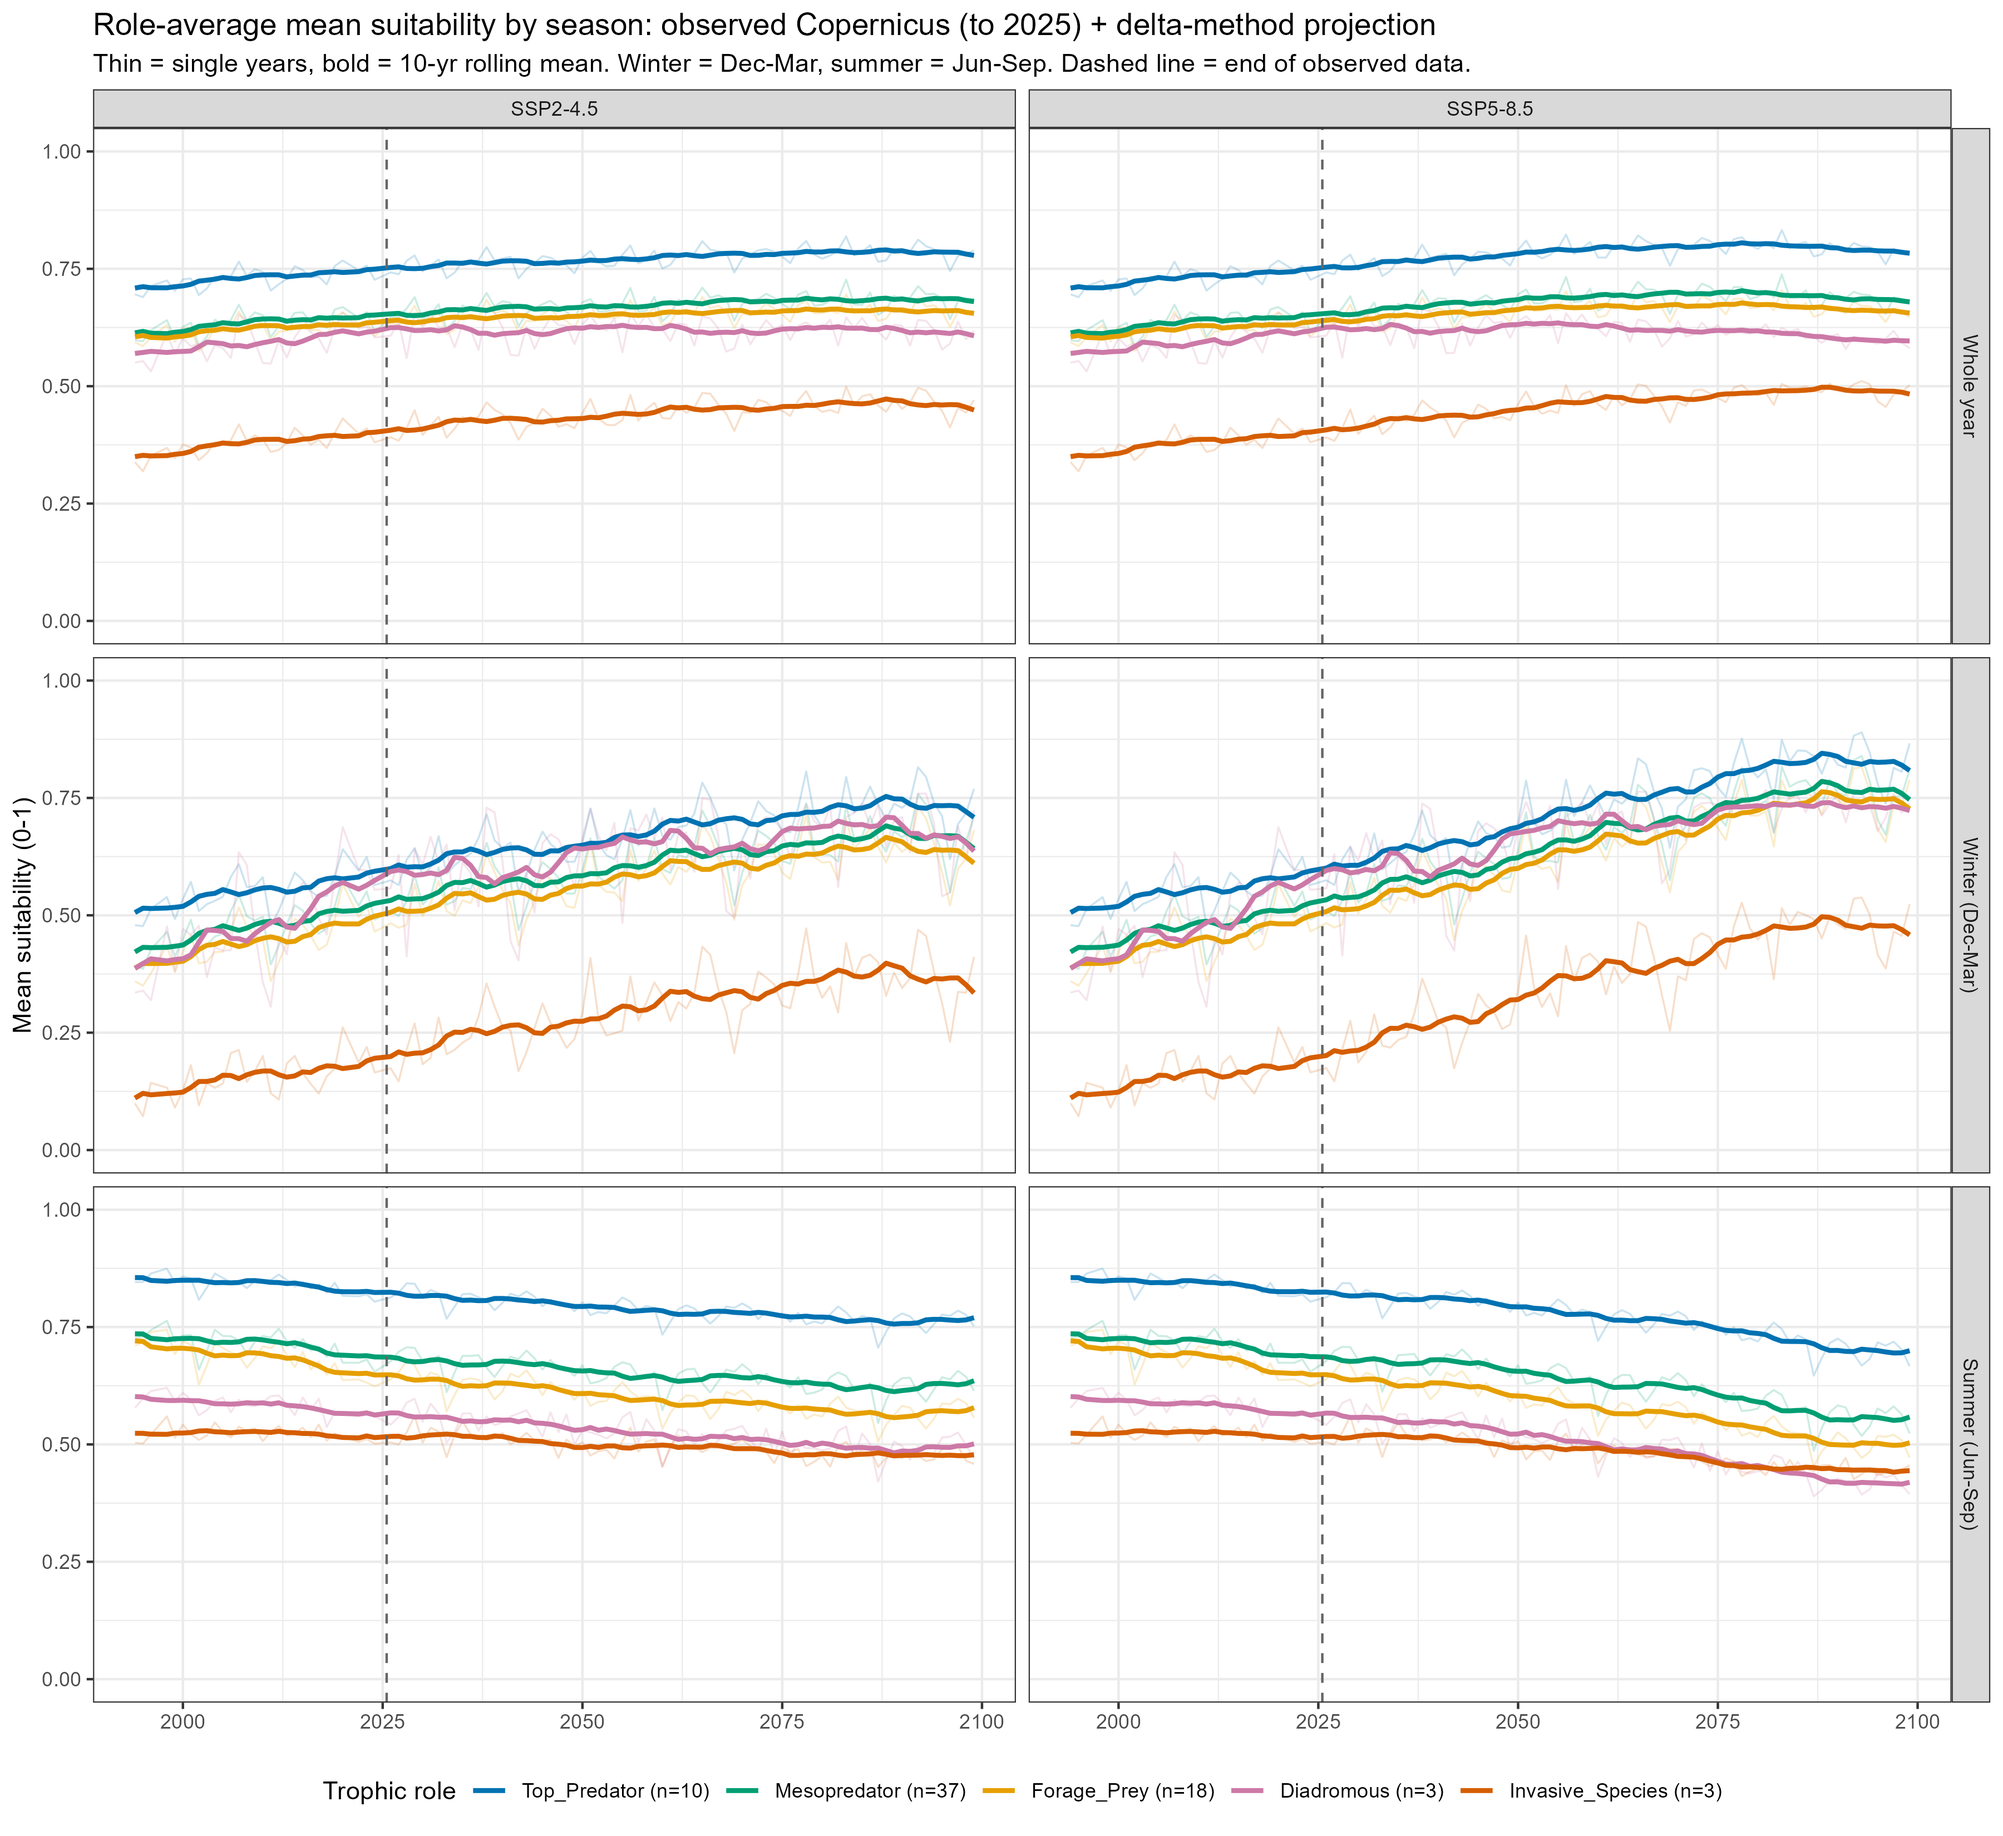
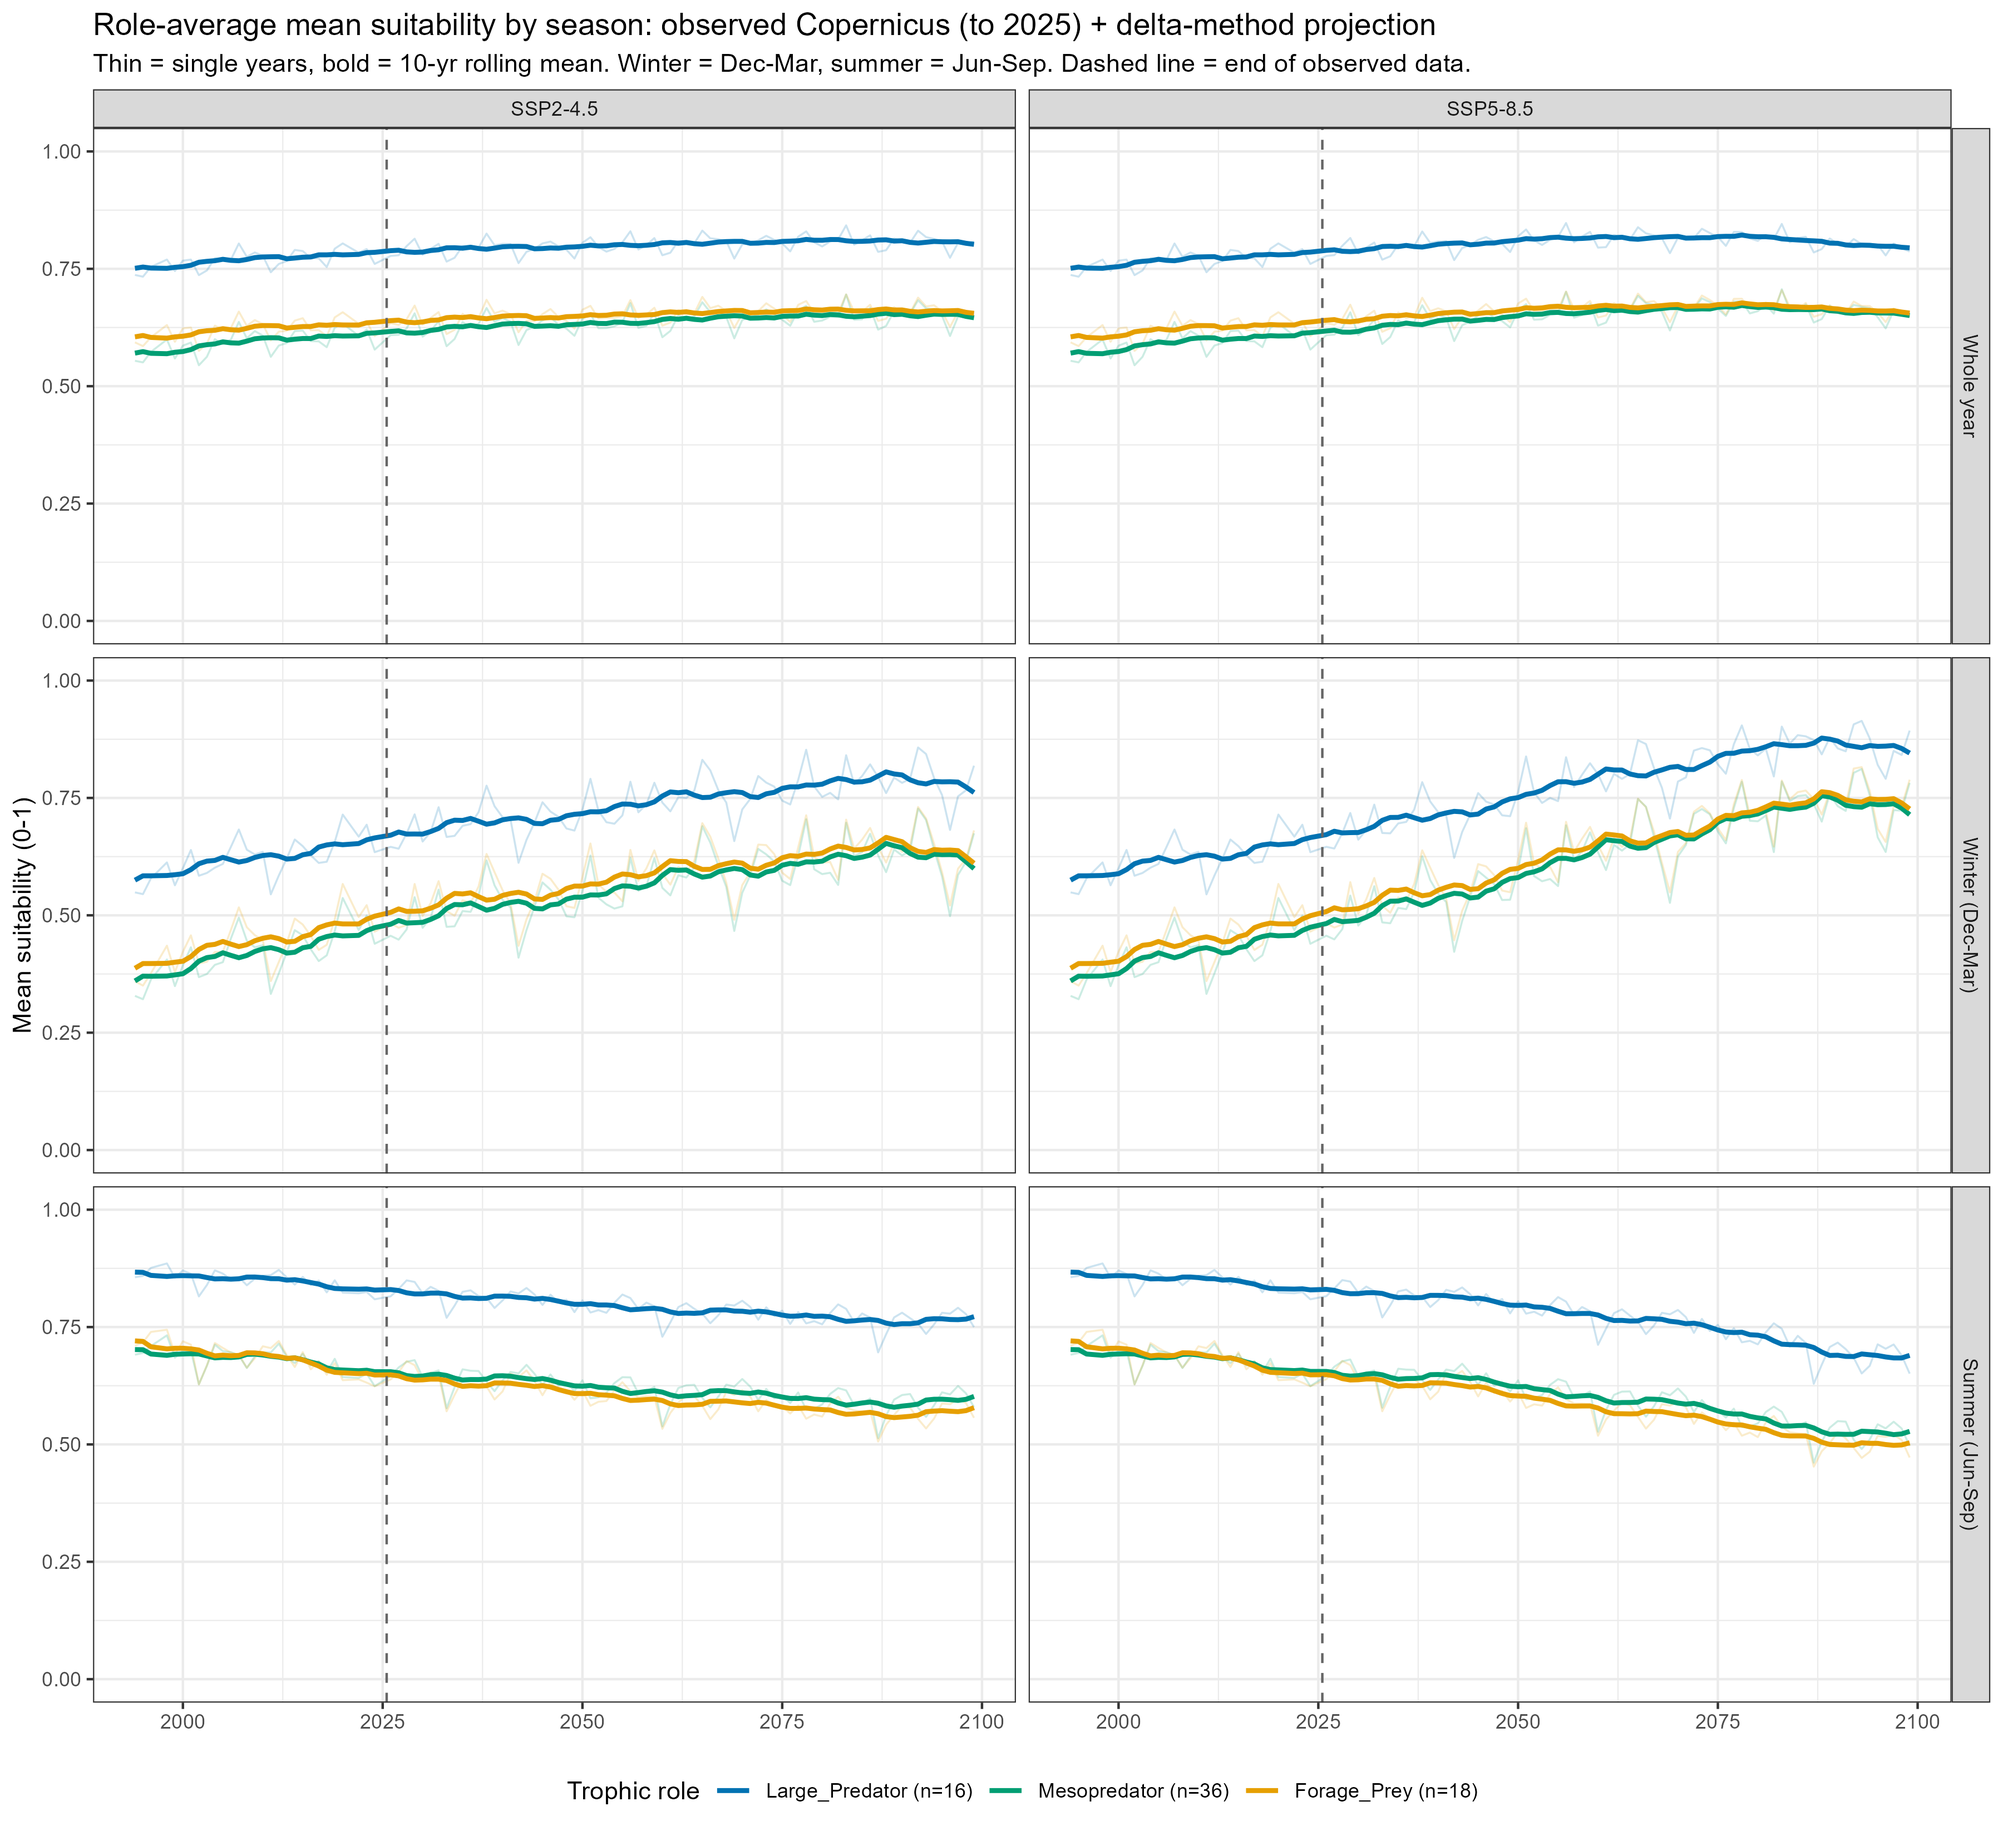
New trophic grouping (Large Predators: fish TL>=3.5 and >=60 cm / Mesopredator / Forage-Prey); lionfish removed; updated role figures

diff --git a/data/species.js b/data/species.js
@@ -1,7 +1,7 @@
 window.SPECIES_DATA = [
-  { common: "Baltic (vendace-type) whitefish", role: "Diadromous", prefix: "Baltic_vendace_type_whitefish", season: true, future: true },
-  { common: "European eel", role: "Diadromous", prefix: "European_eel", season: true, future: true },
-  { common: "Sea trout", role: "Diadromous", prefix: "Sea_trout", season: true, future: true },
+  { common: "Baltic (vendace-type) whitefish", role: "Mesopredator", prefix: "Baltic_vendace_type_whitefish", season: true, future: true },
+  { common: "European eel", role: "Large_Predator", prefix: "European_eel", season: true, future: true },
+  { common: "Sea trout", role: "Mesopredator", prefix: "Sea_trout", season: true, future: true },
   { common: "Atlantic herring", role: "Forage_Prey", prefix: "Atlantic_herring", season: true, future: true },
   { common: "Broadnosed pipefish", role: "Forage_Prey", prefix: "Broadnosed_pipefish", season: true, future: true },
   { common: "Brown shrimp", role: "Forage_Prey", prefix: "Brown_shrimp", season: true, future: true },
@@ -20,12 +20,11 @@ window.SPECIES_DATA = [
   { common: "Straight-nosed pipefish", role: "Forage_Prey", prefix: "Straight_nosed_pipefish", season: true, future: true },
   { common: "Transparent goby", role: "Forage_Prey", prefix: "Transparent_goby", season: true, future: true },
   { common: "Worm pipefish", role: "Forage_Prey", prefix: "Worm_pipefish", season: true, future: true },
-  { common: "Blue crab", role: "Invasive_Species", prefix: "Blue_crab", season: true, future: true },
-  { common: "Devil firefish (lionfish)", role: "Invasive_Species", prefix: "Devil_firefish_lionfish", season: true, future: true },
-  { common: "Round goby (invasive)", role: "Invasive_Species", prefix: "Round_goby_invasive", season: true, future: true },
+  { common: "Blue crab", role: "Mesopredator", prefix: "Blue_crab", season: true, future: true },
+  { common: "Round goby (invasive)", role: "Mesopredator", prefix: "Round_goby_invasive", season: true, future: true },
   { common: "Ballan wrasse", role: "Mesopredator", prefix: "Ballan_wrasse", season: true, future: true },
   { common: "Black goby", role: "Mesopredator", prefix: "Black_goby", season: true, future: true },
-  { common: "Brill", role: "Mesopredator", prefix: "Brill", season: true, future: true },
+  { common: "Brill", role: "Large_Predator", prefix: "Brill", season: true, future: true },
   { common: "Brown crab (edible crab)", role: "Mesopredator", prefix: "Brown_crab_edible_crab", season: true, future: true },
   { common: "Common dab", role: "Mesopredator", prefix: "Common_dab", season: true, future: true },
   { common: "Common dragonet", role: "Mesopredator", prefix: "Common_dragonet", season: true, future: true },
@@ -44,31 +43,31 @@ window.SPECIES_DATA = [
   { common: "Green crab (shore crab)", role: "Mesopredator", prefix: "Green_crab_shore_crab", season: true, future: true },
   { common: "Hooknose (pogge)", role: "Mesopredator", prefix: "Hooknose_pogge", season: true, future: true },
   { common: "Lemon sole", role: "Mesopredator", prefix: "Lemon_sole", season: true, future: true },
-  { common: "Long rough dab", role: "Mesopredator", prefix: "Long_rough_dab", season: true, future: true },
+  { common: "Long rough dab", role: "Large_Predator", prefix: "Long_rough_dab", season: true, future: true },
   { common: "Longspined bullhead", role: "Mesopredator", prefix: "Longspined_bullhead", season: true, future: true },
-  { common: "Lumpsucker", role: "Mesopredator", prefix: "Lumpsucker", season: true, future: true },
+  { common: "Lumpsucker", role: "Large_Predator", prefix: "Lumpsucker", season: true, future: true },
   { common: "Norwegian topknot", role: "Mesopredator", prefix: "Norwegian_topknot", season: true, future: true },
   { common: "Poor cod", role: "Mesopredator", prefix: "Poor_cod", season: true, future: true },
   { common: "Pouting (bib)", role: "Mesopredator", prefix: "Pouting_bib", season: true, future: true },
   { common: "Red mullet", role: "Mesopredator", prefix: "Red_mullet", season: true, future: true },
   { common: "Rock cook", role: "Mesopredator", prefix: "Rock_cook", season: true, future: true },
   { common: "Scaldfish", role: "Mesopredator", prefix: "Scaldfish", season: true, future: true },
-  { common: "Shorthorn sculpin", role: "Mesopredator", prefix: "Shorthorn_sculpin", season: true, future: true },
+  { common: "Shorthorn sculpin", role: "Large_Predator", prefix: "Shorthorn_sculpin", season: true, future: true },
   { common: "Tadpole fish", role: "Mesopredator", prefix: "Tadpole_fish", season: true, future: true },
   { common: "Thicklip grey mullet", role: "Mesopredator", prefix: "Thicklip_grey_mullet", season: true, future: true },
   { common: "Three-spined stickleback", role: "Mesopredator", prefix: "Three_spined_stickleback", season: true, future: true },
   { common: "Topknot", role: "Mesopredator", prefix: "Topknot", season: true, future: true },
-  { common: "Whiting", role: "Mesopredator", prefix: "Whiting", season: true, future: true },
+  { common: "Whiting", role: "Large_Predator", prefix: "Whiting", season: true, future: true },
   { common: "Yarrell's blenny", role: "Mesopredator", prefix: "Yarrell_s_blenny", season: true, future: true },
-  { common: "Atlantic cod", role: "Top_Predator", prefix: "Atlantic_cod", season: true, future: true },
-  { common: "Atlantic horse mackerel (scad)", role: "Top_Predator", prefix: "Atlantic_horse_mackerel_scad", season: true, future: true },
-  { common: "Atlantic mackerel", role: "Top_Predator", prefix: "Atlantic_mackerel", season: true, future: true },
-  { common: "Atlantic wolffish", role: "Top_Predator", prefix: "Atlantic_wolffish", season: true, future: true },
-  { common: "European seabass", role: "Top_Predator", prefix: "European_seabass", season: true, future: true },
-  { common: "Garfish", role: "Top_Predator", prefix: "Garfish", season: true, future: true },
-  { common: "Ling", role: "Top_Predator", prefix: "Ling", season: true, future: true },
-  { common: "Pollack", role: "Top_Predator", prefix: "Pollack", season: true, future: true },
-  { common: "Saithe (coalfish)", role: "Top_Predator", prefix: "Saithe_coalfish", season: true, future: true },
-  { common: "Turbot", role: "Top_Predator", prefix: "Turbot", season: true, future: true }
+  { common: "Atlantic cod", role: "Large_Predator", prefix: "Atlantic_cod", season: true, future: true },
+  { common: "Atlantic horse mackerel (scad)", role: "Large_Predator", prefix: "Atlantic_horse_mackerel_scad", season: true, future: true },
+  { common: "Atlantic mackerel", role: "Large_Predator", prefix: "Atlantic_mackerel", season: true, future: true },
+  { common: "Atlantic wolffish", role: "Large_Predator", prefix: "Atlantic_wolffish", season: true, future: true },
+  { common: "European seabass", role: "Large_Predator", prefix: "European_seabass", season: true, future: true },
+  { common: "Garfish", role: "Large_Predator", prefix: "Garfish", season: true, future: true },
+  { common: "Ling", role: "Large_Predator", prefix: "Ling", season: true, future: true },
+  { common: "Pollack", role: "Large_Predator", prefix: "Pollack", season: true, future: true },
+  { common: "Saithe (coalfish)", role: "Large_Predator", prefix: "Saithe_coalfish", season: true, future: true },
+  { common: "Turbot", role: "Large_Predator", prefix: "Turbot", season: true, future: true }
 ];
 

diff --git a/index.html b/index.html
@@ -4,7 +4,7 @@
 <meta charset="UTF-8">
 <meta name="viewport" content="width=device-width, initial-scale=1.0">
 <title>Swedish West Coast Trophic Levels -- Habitat Suitability Results</title>
-<link rel="stylesheet" href="style.css?v=4">
+<link rel="stylesheet" href="style.css?v=5">
 </head>
 <body>
   <header>
@@ -24,24 +24,24 @@
         <p><strong>Winter gains, summer losses.</strong> Averaged over the whole year, habitat suitability rises slightly
         for most trophic roles until 2099. Split by season, the picture is different: in <strong>winter</strong>
         (December-March) every role gains, because warmer winters lift conditions above the species' cold limits;
-        in <strong>summer</strong> (June-September) almost every species loses (under SSP5-8.5, 66 of 71 species by 2080-2099).
+        in <strong>summer</strong> (June-September) almost every species loses (under SSP5-8.5, 66 of 70 species by 2080-2099).
         The whole-year increase is therefore winter gains outweighing summer losses, not an overall improvement.</p>
         <p>Observed Copernicus reanalysis until 2025, then delta-method projections (see the Future Projections tab)
         under SSP2-4.5 and SSP5-8.5. Thin lines = single years, bold = 10-year rolling mean.</p>
       </div>
       <p class="caption">Role-average mean suitability by season.</p>
-      <img class="result-img" src="assets/summary/role_season_timeseries.png?v=2" alt="Role-average suitability by season, 1994-2099">
+      <img class="result-img" src="assets/summary/role_season_timeseries.png?v=3" alt="Role-average suitability by season, 1994-2099">
       <p class="caption">Case-study species (Atlantic cod, goldsinny wrasse, blue crab): mean suitability by season.
       % change from the observed 1994-2003 baseline (own y-axis per season). Cod loses mainly in summer, while its winter is already near optimal; goldsinny and blue crab gain mainly in winter.</p>
-      <img class="result-img" src="assets/summary/case_study_season_timeseries.png?v=3" alt="Case-study species suitability by season, 1994-2099">
+      <img class="result-img" src="assets/summary/case_study_season_timeseries.png?v=4" alt="Case-study species suitability by season, 1994-2099">
       <p class="caption">Per species: change in winter (x) versus summer (y) suitability, observed 1994-2022 to 2080-2099.
       Most species sit in the lower right: they gain in winter but lose in summer.</p>
       <div class="side-by-side">
         <div class="side-col side-col-half">
-          <img class="result-img" src="assets/summary/winter_vs_summer_change_SSP245.png?v=2" alt="Winter vs summer change, SSP2-4.5">
+          <img class="result-img" src="assets/summary/winter_vs_summer_change_SSP245.png?v=3" alt="Winter vs summer change, SSP2-4.5">
         </div>
         <div class="side-col side-col-half">
-          <img class="result-img" src="assets/summary/winter_vs_summer_change_SSP585.png?v=2" alt="Winter vs summer change, SSP5-8.5">
+          <img class="result-img" src="assets/summary/winter_vs_summer_change_SSP585.png?v=3" alt="Winter vs summer change, SSP5-8.5">
         </div>
       </div>
     </section>
@@ -93,7 +93,7 @@
     projections: delta method with the FutureMares CMIP6 ensemble (Kristiansen &amp; Butenschön 2024).</p>
   </footer>
 
-  <script src="data/species.js?v=3"></script>
-  <script src="app.js?v=5"></script>
+  <script src="data/species.js?v=4"></script>
+  <script src="app.js?v=6"></script>
 </body>
 </html>

diff --git a/app.js b/app.js
@@ -3,10 +3,11 @@
 // plain static page -- no server needed, since none of this involves live
 // computation, just swapping which pre-rendered image is shown.
 
-const ROLE_ORDER = ["Top_Predator", "Mesopredator", "Forage_Prey", "Diadromous", "Freshwater_Stray", "Invasive_Species"];
+const ROLE_ORDER = ["Large_Predator", "Mesopredator", "Forage_Prey", "Diadromous", "Freshwater_Stray", "Invasive_Species"];
 
+const ROLE_LABELS = { Large_Predator: "Large Predators", Forage_Prey: "Forage/Prey" };
 function roleLabel(role) {
-  return role.replace(/_/g, " ");
+  return ROLE_LABELS[role] || role.replace(/_/g, " ");
 }
 
 function buildGroupedSelect(selectEl, speciesList) {

diff --git a/style.css b/style.css
@@ -91,7 +91,7 @@ select {
   font-size: 0.85em;
 }
 
-.role-badge.Top_Predator { background-color: var(--top-predator); }
+.role-badge.Large_Predator { background-color: var(--top-predator); }
 .role-badge.Mesopredator { background-color: var(--mesopredator); }
 .role-badge.Forage_Prey { background-color: var(--forage-prey); }
 .role-badge.Diadromous { background-color: var(--diadromous); }
